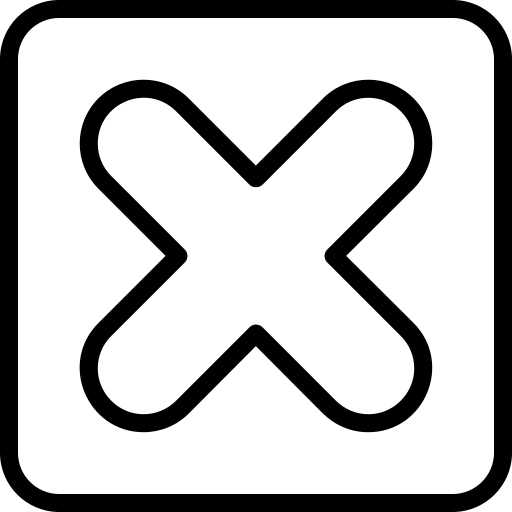
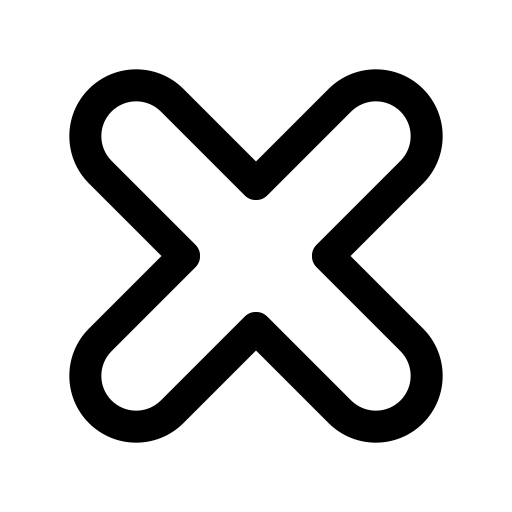
Added notes to haircut and formula steps, feracroted UI

diff --git a/app/assets/stylesheets/service_notes.css b/app/assets/stylesheets/service_notes.css
@@ -118,6 +118,26 @@
   justify-items: center;
 }
 
+/* ===== FORMULA SECTIONS GRID ONLY ===== */
+.sections-grid:not(.haircut-zones-grid) {
+  grid-template-columns: repeat(6, minmax(0, 1fr));
+  column-gap: 6px;
+  row-gap: 10px;
+}
+
+.sections-grid:not(.haircut-zones-grid) > .section-button {
+  grid-column: span 2;
+  width: 100%;
+}
+
+.sections-grid:not(.haircut-zones-grid) > .section-button:nth-child(4) {
+  grid-column: 2 / span 2;
+}
+
+.sections-grid:not(.haircut-zones-grid) > .section-button:nth-child(5) {
+  grid-column: 4 / span 2;
+}
+
 /* SECTION BUTTON */
 .section-button {
   display: flex;
@@ -825,4 +845,146 @@
 /* DROPDOWN */
 .add-step-content {
   margin-top: 10px;
+}
+
+/* ===== STEP GENERAL NOTES ===== */
+.step-general-notes {
+  width: 100%;
+  margin-top: 24px;
+}
+
+.step-general-notes .block-title {
+  margin-bottom: 12px;
+}
+
+.step-general-notes .notes-textarea {
+  display: block;
+  box-sizing: border-box;
+  width: 100%;
+  min-height: 100px;
+  resize: vertical;
+}
+/* ===== FORMULA STEP HEADER ===== */
+.formula-container .formula-step-header {
+  display: flex;
+  align-items: center;
+  justify-content: space-between;
+  gap: 12px;
+}
+
+.formula-container .formula-step-header-left {
+  display: flex;
+  align-items: center;
+  gap: 12px;
+  min-width: 0;
+}
+
+.formula-container .formula-step-header .chevron {
+  width: 16px;
+  height: 16px;
+  flex-shrink: 0;
+  transform: rotate(180deg);
+  transition: transform 0.2s ease;
+}
+
+.formula-container .formula-step-wrapper.open > .formula-step-header .chevron {
+  transform: rotate(0deg);
+}
+
+/* STEP DELETE / MODAL CLOSE */
+.formula-step-delete,
+.formula-section-modal-close {
+  display: flex;
+  align-items: center;
+  justify-content: center;
+  width: 32px;
+  height: 32px;
+  padding: 4px;
+  border: none;
+  background: transparent;
+  cursor: pointer;
+}
+
+.formula-step-delete img,
+.formula-section-modal-close img {
+  display: block;
+  max-width: 100%;
+  max-height: 100%;
+  object-fit: contain;
+}
+
+/* CHANGE FORMULA SECTION */
+.formula-container .formula-header .step-remove {
+  display: flex;
+  align-items: center;
+  justify-content: center;
+  width: 24px;
+  height: 24px;
+  flex-shrink: 0;
+  margin-right: 0;
+}
+
+.formula-container .formula-change-section {
+  display: flex;
+  align-items: center;
+  justify-content: center;
+  width: 24px;
+  height: 24px;
+  padding: 0;
+  margin: 0;
+  border: none;
+  background: transparent;
+  cursor: pointer;
+}
+
+.formula-container .formula-change-section img {
+  display: block;
+  width: 24px;
+  height: 24px;
+  object-fit: contain;
+}
+
+/* ===== CHANGE SECTION MODAL ===== */
+.formula-section-modal {
+  position: fixed;
+  inset: 0;
+  z-index: 11000;
+  display: flex;
+  align-items: center;
+  justify-content: center;
+  padding: 16px;
+  background: rgba(0, 0, 0, 0.45);
+}
+
+.formula-section-modal.hidden {
+  display: none;
+}
+
+.formula-section-modal-content {
+  box-sizing: border-box;
+  width: 100%;
+  max-width: 480px;
+  max-height: 85dvh;
+  overflow-y: auto;
+  background: #f5f3ff;
+  border-radius: 18px;
+  padding: 20px 16px;
+}
+
+.formula-section-modal-header {
+  display: flex;
+  justify-content: space-between;
+  align-items: center;
+  margin-bottom: 16px;
+}
+
+.formula-section-modal-header h3 {
+  margin: 0;
+  font-size: 16px;
+  font-weight: 600;
+}
+
+.formula-section-change-grid {
+  row-gap: 10px;
+  column-gap: 6px;
 }

diff --git a/app/javascript/controllers/formula_controller.js b/app/javascript/controllers/formula_controller.js
@@ -3,7 +3,7 @@ import { Controller } from "@hotwired/stimulus"
 import Sortable from "sortablejs"
 
 export default class extends Controller {
-  static targets = ["container", "template", "steps", "colorsList", "addStep"]
+  static targets = ["container", "template", "steps", "colorsList", "addStep", "sectionModal"]
 
   static values = {
     sections: Object,
@@ -24,6 +24,7 @@ export default class extends Controller {
   disconnect() {
     this.element.removeEventListener("input", this.handleAmountInput)
     window.removeEventListener("formula:firstStepFilled", this.showAddStepHandler)
+    this.sectionEditingStep = null
   }
 
   // ---------------- COLOR SUM ----------------
@@ -145,6 +146,7 @@ export default class extends Controller {
 
   removeStep(event) {
     event.preventDefault()
+    event.stopPropagation()
 
     const wrapper = event.currentTarget.closest(".formula-step-wrapper")
     if (!wrapper) return
@@ -308,9 +310,8 @@ export default class extends Controller {
 
   // ---------------- IMPORT FORMULA ----------------
   hasActiveFormulaSteps() {
-    return Array.from(
-      this.containerTarget.querySelectorAll(".formula-step-wrapper")
-    ).some(wrapper => {
+    return Array.from(this.containerTarget.querySelectorAll(".formula-step-wrapper"))
+    .some(wrapper => {
       const destroy = wrapper.querySelector(".destroy-field")
 
       return wrapper.style.display !== "none" && destroy?.value !== "1"
@@ -516,6 +517,57 @@ export default class extends Controller {
     row.querySelector(".delete-icon").src = this.deleteIconValue
 
     list.appendChild(row)
+  }
+  // ---------------- CHANGE SECTION ----------------
+  openSectionPicker(event) {
+    event.preventDefault()
+    event.stopPropagation()
+
+    const wrapper = event.currentTarget.closest(".formula-step-wrapper")
+    if (!wrapper || !this.hasSectionModalTarget) return
+
+    this.sectionEditingStep = wrapper
+    this.sectionModalTarget.classList.remove("hidden")
+  }
+
+  changeSection(event) {
+    event.preventDefault()
+    event.stopPropagation()
+
+    const wrapper = this.sectionEditingStep
+    if (!wrapper) return
+
+    const section = event.currentTarget.dataset.section
+    if (!Object.hasOwn(this.sectionsValue, section)) return
+
+    const sectionInput = wrapper.querySelector('input[name$="[section]"]')
+    const sectionTitle = wrapper.querySelector(".formula-section-title")
+
+    if (!sectionInput || !sectionTitle) return
+
+    sectionInput.value = section
+    sectionTitle.textContent = this.sectionsValue[section]
+
+    this.closeSectionPicker()
+
+    window.dispatchEvent(new CustomEvent("formula:changed"))
+  }
+
+  closeSectionPicker(event) {
+    if (event) {
+      event.preventDefault()
+      event.stopPropagation()
+    }
+
+    if (this.hasSectionModalTarget) {
+      this.sectionModalTarget.classList.add("hidden")
+    }
+
+    this.sectionEditingStep = null
+  }
+
+  stopPropagation(event) {
+    event.stopPropagation()
   }
 
   // ---------------- DRAG ----------------

diff --git a/db/schema.rb b/db/schema.rb
@@ -10,7 +10,7 @@
 #
 # It's strongly recommended that you check this file into your version control system.
 
-ActiveRecord::Schema[8.1].define(version: 2026_11_02_154339) do
+ActiveRecord::Schema[8.1].define(version: 2026_11_11_110239) do
   create_table "active_storage_attachments", force: :cascade do |t|
     t.bigint "blob_id", null: false
     t.datetime "created_at", null: false
@@ -228,6 +228,7 @@ ActiveRecord::Schema[8.1].define(version: 2026_11_02_154339) do
 
   create_table "formula_steps", force: :cascade do |t|
     t.datetime "created_at", null: false
+    t.text "notes"
     t.json "oxidant"
     t.string "section", null: false
     t.integer "service_note_id", null: false
@@ -265,6 +266,8 @@ ActiveRecord::Schema[8.1].define(version: 2026_11_02_154339) do
     t.integer "client_id", null: false
     t.datetime "created_at", null: false
     t.json "data", default: {}, null: false
+    t.text "formula_notes"
+    t.text "haircut_notes"
     t.integer "main_photo_id"
     t.text "notes"
     t.integer "price"

diff --git a/app/controllers/service_notes_controller.rb b/app/controllers/service_notes_controller.rb
@@ -161,6 +161,8 @@ class ServiceNotesController < ApplicationController
     params.require(:service_note).permit(
       :service_type,
       :notes,
+      :haircut_notes,
+      :formula_notes,
       :price,
       :care_products,
       photos: [],

diff --git a/db/migrate/20261111110239_add_haircut_and_formula_notes_to_service_notes.rb b/db/migrate/20261111110239_add_haircut_and_formula_notes_to_service_notes.rb
@@ -1,0 +1,6 @@
+class AddHaircutAndFormulaNotesToServiceNotes < ActiveRecord::Migration[8.1]
+  def change
+    add_column :service_notes, :haircut_notes, :text
+    add_column :service_notes, :formula_notes, :text
+  end
+end

diff --git a/db/migrate/20261111103809_add_notes_to_formula_steps.rb b/db/migrate/20261111103809_add_notes_to_formula_steps.rb
@@ -1,0 +1,5 @@
+class AddNotesToFormulaSteps < ActiveRecord::Migration[8.1]
+  def change
+    add_column :formula_steps, :notes, :text
+  end
+end
